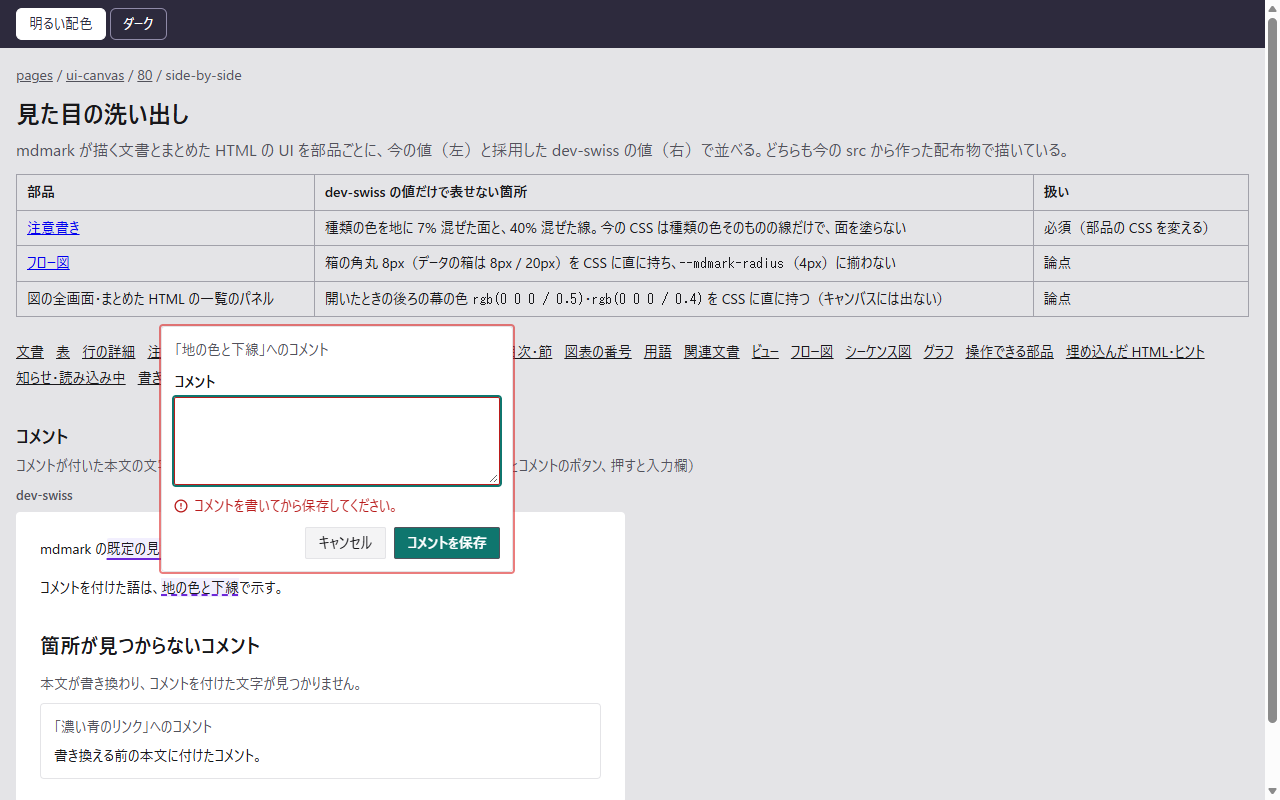
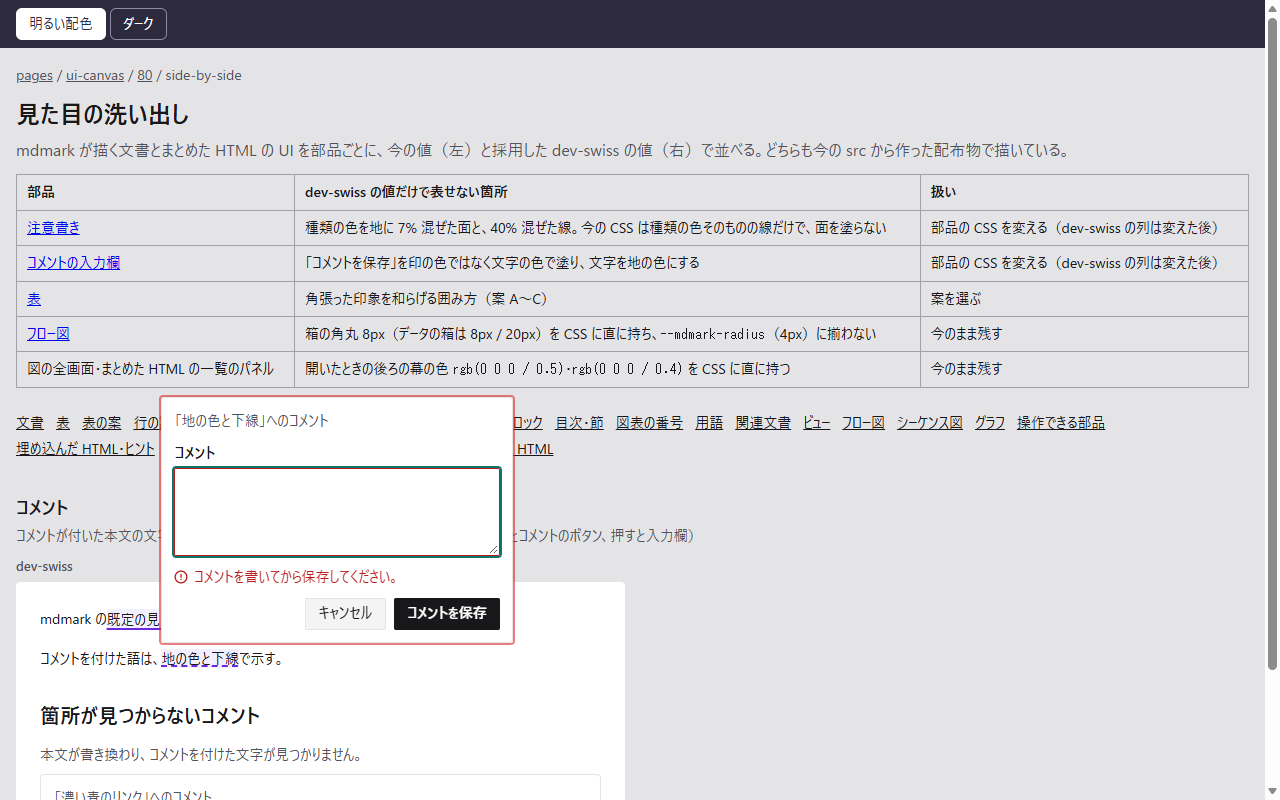
mock: PR #80 のキャンバスに表の案 A〜C を足し、コメントを保存のボタンを文字の色で塗る

diff --git a/dev/mock/pages/ui-canvas/80/side-by-side/index.html b/dev/mock/pages/ui-canvas/80/side-by-side/index.html
@@ -14,6 +14,8 @@
   <link rel="stylesheet" href="../../../../refs/80/assets/mdmark/viewer.css">
   <!-- 列ごとの値（今の値と dev-swiss）と、dev-swiss の列だけに当てる部品の CSS の変更 -->
   <link rel="stylesheet" href="../../../../refs/80/assets/canvas-themes.css">
+  <!-- 表の案（案 A〜C）の囲み方 -->
+  <link rel="stylesheet" href="../../../../refs/80/assets/table-options.css">
   <!-- キャンバスの並べ方 -->
   <link rel="stylesheet" href="./style.css">
   <!-- 配色の切り替え -->
@@ -43,9 +45,11 @@
         <tr><th>部品</th><th>dev-swiss の値だけで表せない箇所</th><th>扱い</th></tr>
       </thead>
       <tbody>
-        <tr><td><a href="#part-callout">注意書き</a></td><td>種類の色を地に 7% 混ぜた面と、40% 混ぜた線。今の CSS は種類の色そのものの線だけで、面を塗らない</td><td>必須（部品の CSS を変える）</td></tr>
-        <tr><td><a href="#part-flow">フロー図</a></td><td>箱の角丸 8px（データの箱は 8px / 20px）を CSS に直に持ち、<code>--mdmark-radius</code>（4px）に揃わない</td><td>論点</td></tr>
-        <tr><td>図の全画面・まとめた HTML の一覧のパネル</td><td>開いたときの後ろの幕の色 <code>rgb(0 0 0 / 0.5)</code>・<code>rgb(0 0 0 / 0.4)</code> を CSS に直に持つ（図の幕は全画面のボタンで出る。一覧のパネルの幕はキャンバスには出ない）</td><td>論点</td></tr>
+        <tr><td><a href="#part-callout">注意書き</a></td><td>種類の色を地に 7% 混ぜた面と、40% 混ぜた線。今の CSS は種類の色そのものの線だけで、面を塗らない</td><td>部品の CSS を変える（dev-swiss の列は変えた後）</td></tr>
+        <tr><td><a href="#part-comment">コメントの入力欄</a></td><td>「コメントを保存」を印の色ではなく文字の色で塗り、文字を地の色にする</td><td>部品の CSS を変える（dev-swiss の列は変えた後）</td></tr>
+        <tr><td><a href="#part-table-options">表</a></td><td>角張った印象を和らげる囲み方（案 A〜C）</td><td>案を選ぶ</td></tr>
+        <tr><td><a href="#part-flow">フロー図</a></td><td>箱の角丸 8px（データの箱は 8px / 20px）を CSS に直に持ち、<code>--mdmark-radius</code>（4px）に揃わない</td><td>今のまま残す</td></tr>
+        <tr><td>図の全画面・まとめた HTML の一覧のパネル</td><td>開いたときの後ろの幕の色 <code>rgb(0 0 0 / 0.5)</code>・<code>rgb(0 0 0 / 0.4)</code> を CSS に直に持つ</td><td>今のまま残す</td></tr>
       </tbody>
     </table>
 
@@ -54,6 +58,7 @@
       <ul class="canvas-toc">
         <li><a href="#part-body">文書</a></li>
         <li><a href="#part-table">表</a></li>
+        <li><a href="#part-table-options">表の案</a></li>
         <li><a href="#part-row-detail">行の詳細</a></li>
         <li><a href="#part-callout">注意書き</a></li>
         <li><a href="#part-tabs">タブ</a></li>
@@ -157,6 +162,64 @@ const view = mount(document.querySelector("#doc"), { markdown });
 </script>
     </section>
 
+    <!-- 表の案: 今の dev-swiss の表と、角張った印象を和らげる案 A〜C -->
+    <section class="canvas-section" id="part-table-options" data-canvas="table-options" data-canvas-columns="theme-dev-swiss,table-a,table-b,table-c">
+      <h2>表の案</h2>
+      <p>既定の表・data の表・plain の表・閉じた表・用語集の表・ビューの表を、今の dev-swiss と案 A〜C で並べる。どの案も dev-swiss の値のまま、表の囲み方だけを変える</p>
+      <p class="canvas-change">今の表は表全体を面の色（#f4f4f5）で塗り、見出し行の下に 2px の線を引く。案 A〜C は本文の行を地の色にし、見出し行だけを面の色にする（mindstella の本文の表と同じ）</p>
+      <script type="text/markdown" data-canvas-source>
+| 変数 | 役割 | 既定の値 |
+| --- | --- | ---: |
+| `--mdmark-color-bg` | 地の色 | #ffffff |
+| `--mdmark-color-link` | リンクの色 | #0f766e |
+| `--mdmark-radius` | 角丸 | 4px |
+
+<!-- table: data filter=状態 +count +total total=件数:sum -->
+
+| 部品 | 状態 | 件数 |
+| --- | --- | ---: |
+| 表 | 済 | 12 |
+| 注意書き | 未 | 5 |
+| 図 | 済 | 8 |
+
+<!-- /table -->
+
+<!-- table: plain -->
+
+| 項目 | 内容 |
+| --- | --- |
+| 線 | 縦の罫線と面を外す |
+| 行 | 行の境の線だけ |
+
+<!-- /table -->
+
+<!-- table: open -->
+
+| 項目 | 内容 |
+| --- | --- |
+| 開いた表 | 折り畳みの中の表 |
+
+<!-- /table -->
+
+<!-- glossary: term=用語 meaning=意味 -->
+
+| 用語 | 意味 |
+| --- | --- |
+| 印 | HTML コメントで書く指定 |
+
+<!-- /glossary -->
+
+<!-- view: group=状態 default=table -->
+
+| 題 | 状態 | 担当 |
+| --- | --- | --- |
+| 配色の変数を洗い出す | 完了 | designer |
+| 表の囲み方を決める | 進行中 | designer |
+
+<!-- /view -->
+</script>
+    </section>
+
     <!-- 行の詳細 -->
     <section class="canvas-section" id="part-row-detail" data-canvas="row-detail">
       <h2>行の詳細</h2>
@@ -179,7 +242,7 @@ const view = mount(document.querySelector("#doc"), { markdown });
     <section class="canvas-section" id="part-callout" data-canvas="callout">
       <h2>注意書き</h2>
       <p>5 つの種類と、閉じた注意書き</p>
-      <p class="canvas-change">必須: 種類の色の薄い面（地に 7%）と淡い線（地に 40%）は、今の変数で表せない。.markdown-alert の CSS を変える（dev-swiss の列は CSS を変えた後の見た目）</p>
+      <p class="canvas-change">種類の色の薄い面（地に 7%）と淡い線（地に 40%）は、.markdown-alert の CSS を変えて当てる（dev-swiss の列は CSS を変えた後の見た目）</p>
       <script type="text/markdown" data-canvas-source>
 > [!NOTE]
 > 変数の名前は変わらない。
@@ -372,7 +435,7 @@ mount(el, { markdown }); // [!code highlight]
     <section class="canvas-section" id="part-flow" data-canvas="flow">
       <h2>フロー図</h2>
       <p>システムの枠と層・箱・線（図の枠の題・凡例・拡大のボタン）</p>
-      <p class="canvas-change">論点: 箱の角丸は 8px（データの箱は 8px / 20px）を CSS に直に持ち、--mdmark-radius（4px）に揃わない（dev-swiss の列も今の CSS のまま）</p>
+      <p class="canvas-change">箱の角丸は 8px（データの箱は 8px / 20px）を CSS に直に持ち、--mdmark-radius（4px）に揃わない。今のまま残す</p>
       <script type="text/markdown" data-canvas-source>
 <!-- flow -->
 

diff --git a/dev/mock/refs/80/assets/table-options.css b/dev/mock/refs/80/assets/table-options.css
@@ -1,0 +1,133 @@
+/* 洗い出しのキャンバスの表の案: dev-swiss の値の上に、表の囲み方だけを変える部品の CSS。案ごとの class（table-a・table-b・table-c）を列に当てる */
+
+/* 案 A〜C 共通: 本文の行を地の色にし、見出し行だけを面の色で塗る（今は表全体が面の色）。見出し行の下の線を 1px にする */
+:is(.table-a, .table-b, .table-c) .mdmark {
+  /* 表: 地の色を敷き、横スクロールの続きを示す影の重ね合わせも地の色で覆う */
+  table {
+    background:
+      linear-gradient(to right, var(--mdmark-color-bg) 30%, transparent) left / 2.5em 100% no-repeat local,
+      linear-gradient(to left, var(--mdmark-color-bg) 30%, transparent) right / 2.5em 100% no-repeat local,
+      radial-gradient(farthest-side at 0 50%, var(--mdmark-color-scroll-shadow), transparent) left / 0.9em 100% no-repeat scroll,
+      radial-gradient(farthest-side at 100% 50%, var(--mdmark-color-scroll-shadow), transparent) right / 0.9em 100% no-repeat scroll,
+      var(--mdmark-color-bg);
+  }
+
+  /* 見出し行: 面の色で塗り、下の線を本文の行と同じ 1px にする */
+  thead th {
+    border-block-end-width: 1px;
+    background: var(--mdmark-color-surface);
+  }
+
+  /* 印の付いた表の留まる見出し行: 上下の線を 1px の影だけで描き、下の罫線と重ねない */
+  .mdmark-table thead th {
+    border-block-end: 0;
+    box-shadow:
+      inset 0 1px var(--mdmark-color-border),
+      inset 0 -1px var(--mdmark-color-border);
+  }
+
+  /* 集計の行: 上の線を 1px にする */
+  .mdmark-table tfoot td {
+    box-shadow:
+      inset 0 1px var(--mdmark-color-border),
+      inset 0 -1px var(--mdmark-color-border);
+  }
+
+  /* plain の表: 見出し行も地の色のまま */
+  .mdmark-table[data-kind="plain"] thead th {
+    background: var(--mdmark-color-bg);
+  }
+}
+
+/* 案 B: 表の外側を角丸の枠で囲み、セルの線は内側だけに引く */
+.table-b .mdmark {
+  /* 表: 外側の枠と角丸。角は中身ごと丸く切る */
+  table {
+    border: 1px solid var(--mdmark-color-border);
+    border-radius: calc(var(--mdmark-radius) * 2);
+    border-collapse: separate;
+    border-spacing: 0;
+  }
+
+  /* セル: 下と右の線だけを引き、外側の枠と重ねない */
+  :is(th, td) {
+    border: 0;
+    border-block-end: 1px solid var(--mdmark-color-border);
+    border-inline-end: var(--mdmark-table-rule-inline) solid var(--mdmark-color-border);
+  }
+
+  /* 右端の列: 右の線は外側の枠に任せる */
+  :is(th, td):last-child {
+    border-inline-end: 0;
+  }
+
+  /* 最後の行: 下の線は外側の枠に任せる */
+  tbody tr:last-child > :is(th, td) {
+    border-block-end: 0;
+  }
+
+  /* 印の付いた表の留まる見出し行: 上の線は外側の枠に任せ、下の線だけを影で描く */
+  .mdmark-table thead th {
+    border-block-end: 0;
+    box-shadow: inset 0 -1px var(--mdmark-color-border);
+  }
+
+  /* 集計の行: 下の線は外側の枠に任せ、上の線だけを影で描く */
+  .mdmark-table tfoot td {
+    box-shadow: inset 0 1px var(--mdmark-color-border);
+  }
+
+  /* plain の表: 外側の枠を引かない */
+  .mdmark-table[data-kind="plain"] table {
+    border: 0;
+    border-radius: 0;
+  }
+}
+
+/* 案 C: 縦の線と外側の枠を引かず、行の境の横の線だけにする。見出し行は角を丸めた面 */
+.table-c .mdmark {
+  /* 表: 角丸の見出し行を描けるよう、セルの線を重ねない */
+  table {
+    border-collapse: separate;
+    border-spacing: 0;
+  }
+
+  /* セル: 行の境の下の線だけ */
+  :is(th, td) {
+    border: 0;
+    border-block-end: 1px solid var(--mdmark-color-border);
+  }
+
+  /* 見出し行: 面の色だけで本文の行と分け、線を引かない */
+  thead th {
+    border-block-end: 0;
+  }
+
+  /* 見出し行の左端と右端のセル: 面の角を丸める */
+  thead th:first-child {
+    border-start-start-radius: calc(var(--mdmark-radius) * 1.5);
+    border-end-start-radius: calc(var(--mdmark-radius) * 1.5);
+  }
+
+  /* 見出し行の右端のセル */
+  thead th:last-child {
+    border-start-end-radius: calc(var(--mdmark-radius) * 1.5);
+    border-end-end-radius: calc(var(--mdmark-radius) * 1.5);
+  }
+
+  /* 最後の行: 下の線を引かない */
+  tbody tr:last-child > :is(th, td) {
+    border-block-end: 0;
+  }
+
+  /* 印の付いた表の留まる見出し行: 影の線を引かない */
+  .mdmark-table thead th {
+    box-shadow: none;
+  }
+
+  /* 集計の行: 面の色を敷かず、上の線だけで本文の行と分ける */
+  .mdmark-table tfoot td {
+    background: var(--mdmark-color-bg);
+    box-shadow: inset 0 1px var(--mdmark-color-border);
+  }
+}

diff --git a/dev/mock/pages/ui-canvas/80/side-by-side/app.js b/dev/mock/pages/ui-canvas/80/side-by-side/app.js
@@ -2,11 +2,17 @@
 
 import { mount } from "../../../../refs/80/assets/mdmark/index.js";
 
-/** 列の class と名前: class が列に当てる値を決める */
-const COLUMNS = [
-  { theme: "theme-modern", label: "今の値（modern）" },
-  { theme: "theme-dev-swiss", label: "dev-swiss" },
-];
+/** 列の名前と class: class が列に当てる値と部品の CSS の変更を決める */
+const COLUMNS = {
+  "theme-modern": { classes: ["theme-modern"], label: "今の値（modern）" },
+  "theme-dev-swiss": { classes: ["theme-dev-swiss"], label: "dev-swiss" },
+  "table-a": { classes: ["theme-dev-swiss", "table-a"], label: "案 A: 本文の行を地の色・見出しの下の線を 1px" },
+  "table-b": { classes: ["theme-dev-swiss", "table-b"], label: "案 B: 案 A ＋ 角丸の外枠" },
+  "table-c": { classes: ["theme-dev-swiss", "table-c"], label: "案 C: 案 A ＋ 横の線だけ・角丸の見出し行" },
+};
+
+/** 節の [data-canvas-columns] が無いときに並べる列 */
+const DEFAULT_COLUMNS = ["theme-modern", "theme-dev-swiss"];
 
 /** 外部ライブラリの対応表: 読めない印（知らせの枠）と、読み終わらない印（読み込み中の枠） */
 const LIBRARIES = {
@@ -61,10 +67,12 @@ const AFTER_MOUNT = {
 function addColumns(section) {
   const pair = document.createElement("div");
   pair.className = "canvas-pair";
-  const columns = COLUMNS.filter(({ theme }) => !SHOWN_COLUMNS || SHOWN_COLUMNS.includes(theme));
-  const slots = columns.map(({ theme, label }) => {
+  const keys = section.dataset.canvasColumns?.split(",") ?? DEFAULT_COLUMNS;
+  const shown = keys.filter((key) => !SHOWN_COLUMNS || SHOWN_COLUMNS.includes(key));
+  const slots = shown.map((key) => {
+    const { classes, label } = COLUMNS[key];
     const column = document.createElement("div");
-    column.className = `canvas-column ${theme}`;
+    column.classList.add("canvas-column", ...classes);
     const name = document.createElement("p");
     name.className = "canvas-column-label";
     name.textContent = label;
@@ -84,7 +92,7 @@ const SHOWN_COLUMNS = PARAMS.get("columns")?.split(",");
 
 // 列を 1 つに絞ったときは、本文の外（body の直下）に置く部品にも列の値が効くよう、ページの根にもその列の class を当てる
 if (SHOWN_COLUMNS?.length === 1) {
-  document.documentElement.classList.add(SHOWN_COLUMNS[0]);
+  document.documentElement.classList.add(...COLUMNS[SHOWN_COLUMNS[0]].classes);
 }
 
 for (const section of document.querySelectorAll("[data-canvas]")) {

diff --git a/dev/mock/refs/80/assets/canvas-themes.css b/dev/mock/refs/80/assets/canvas-themes.css
@@ -230,3 +230,10 @@
   border-color: color-mix(in oklab, var(--mdmark-callout-color) 40%, var(--mdmark-color-bg));
   background: color-mix(in oklab, var(--mdmark-callout-color) 7%, var(--mdmark-color-bg));
 }
+
+/* 主のボタン（コメントを保存）: 印の色を使わず、文字の色で塗って文字を地の色にする */
+.theme-dev-swiss .mdmark-comment-button.is-primary {
+  border-color: var(--mdmark-color-text);
+  background: var(--mdmark-color-text);
+  color: var(--mdmark-color-bg);
+}
